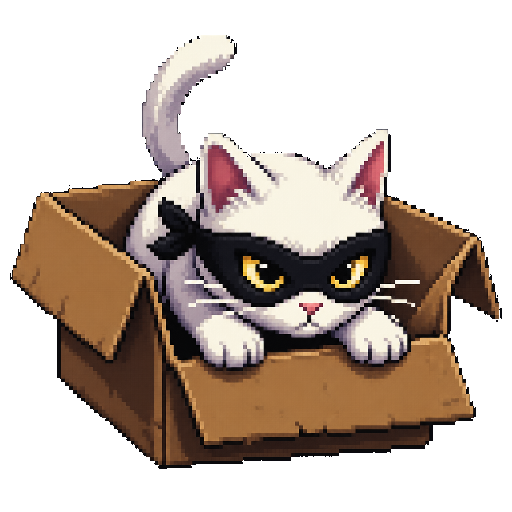
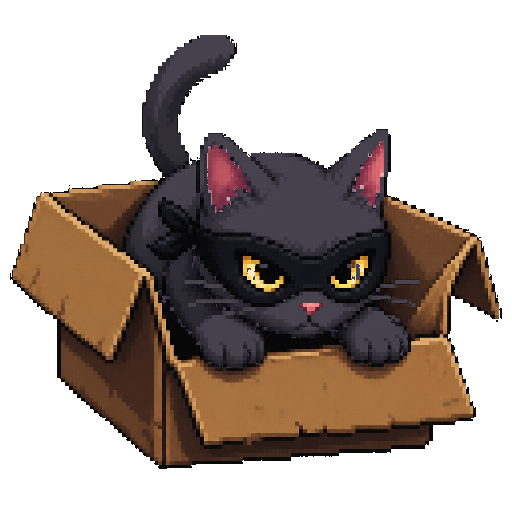
Recolor the Catbox mascot to a black cat and drop ticket hue tints.

Changed region(s): [[0.25, 0.0625, 0.8125, 0.7188], [0.5, 0.5, 0.5312, 0.5312]]

diff --git a/index.html b/index.html
@@ -41,7 +41,7 @@
       href="https://fonts.googleapis.com/css2?family=Noto+Sans:wght@500;700&family=Noto+Sans+SC:wght@500;700&family=Noto+Sans+JP:wght@500;700&family=Noto+Sans+KR:wght@500;700&family=Noto+Sans+Thai:wght@500;700&family=Press+Start+2P&display=swap"
       rel="stylesheet"
     />
-    <link rel="stylesheet" href="./styles.css?v=46" />
+    <link rel="stylesheet" href="./styles.css?v=47" />
   </head>
   <body>
     <div class="crt">
@@ -89,7 +89,7 @@
               <img class="hero-art" src="./assets/hero-run.png?v=1" alt="" />
               <div class="hero-veil"></div>
               <div class="hero-copy">
-                <img class="hero-mascot" src="./assets/hero-cat.png?v=2" alt="Catbox" />
+                <img class="hero-mascot" src="./assets/hero-cat.png?v=3" alt="Catbox" />
                 <div class="hero-text">
                   <h1 data-i18n="hero">JUMP FOR THE COINS.<br />KEEP WHAT YOU CATCH.</h1>
                 </div>
@@ -115,7 +115,7 @@
               <h2 data-i18n="rulesTitle">HOW TO PLAY</h2>
               <div class="how-strip" aria-label="How to play">
                 <div class="how-item">
-                  <img src="./assets/hero-cat.png?v=2" alt="" />
+                  <img src="./assets/hero-cat.png?v=3" alt="" />
                   <span data-i18n="howJump">TAP · JUMP</span>
                 </div>
                 <div class="how-item">
@@ -283,13 +283,13 @@
           </div>
           <div class="pay-stub-art">
             <img src="./assets/icon-ticket.png?v=1" alt="" />
-            <img src="./assets/hero-cat.png?v=2" alt="" />
+            <img src="./assets/hero-cat.png?v=3" alt="" />
           </div>
         </div>
         <p id="payCopy"></p>
         <p class="eligible" data-i18n="eligible">Catch them all — this run burns nothing. Missed: daily 50% · invite 20% · burn 30%.</p>
         <div class="meter-preview">
-          <img src="./assets/hero-cat.png?v=2" alt="" />
+          <img src="./assets/hero-cat.png?v=3" alt="" />
           <img class="coin-logo" src="./assets/coin.png?v=4" alt="" />
           <span data-i18n="payHint">Ticket is chopped into coins. Catch them with the Catbox.</span>
         </div>
@@ -323,7 +323,7 @@
 
       <section id="over" class="panel hidden over-panel">
         <div class="over-stub">
-          <img src="./assets/hero-cat.png?v=2" alt="" />
+          <img src="./assets/hero-cat.png?v=3" alt="" />
           <div>
             <p class="kicker" id="overKicker">RUN OVER</p>
             <h1 id="overTitle">END</h1>
@@ -414,7 +414,7 @@
     <script src="https://cdn.jsdelivr.net/npm/ethers@6.13.5/dist/ethers.umd.min.js"></script>
     <script src="./chain.js?v=53"></script>
     <script src="./i18n.js?v=57"></script>
-    <script src="./game.js?v=62"></script>
+    <script src="./game.js?v=63"></script>
     <script src="./bgm.js?v=26"></script>
   </body>
 </html>

diff --git a/styles.css b/styles.css
@@ -712,11 +712,11 @@ h1 { font-size: 16px; line-height: 1.6; margin: 0 0 14px; }
 .ticket.t0 { border-color: #5ad0a0; }
 .ticket.t0 .ticket-mascot { border-color: #5ad0a0; filter: none; }
 .ticket.t1 { border-color: #5aa6ff; }
-.ticket.t1 .ticket-mascot { border-color: #5aa6ff; filter: hue-rotate(190deg) saturate(1.25); }
+.ticket.t1 .ticket-mascot { border-color: #5aa6ff; filter: none; }
 .ticket.t2 { border-color: #9b7dff; }
-.ticket.t2 .ticket-mascot { border-color: #9b7dff; filter: hue-rotate(255deg) saturate(1.35) brightness(1.05); }
+.ticket.t2 .ticket-mascot { border-color: #9b7dff; filter: none; }
 .ticket.t3 { border-color: var(--gold); }
-.ticket.t3 .ticket-mascot { border-color: var(--gold); filter: hue-rotate(-18deg) saturate(1.45) contrast(1.08); }
+.ticket.t3 .ticket-mascot { border-color: var(--gold); filter: none; }
 .play-tag {
   position: absolute; left: 0; right: 0; bottom: 0;
   text-align: center; background: linear-gradient(180deg, #edd078, #c9a227); color: #1a1204;

diff --git a/game.js b/game.js
@@ -971,7 +971,7 @@ const PLAYER_SX = 160;
 const imgCoin = new Image();
 imgCoin.src = "./assets/coin.png?v=4";
 const imgCat = new Image();
-imgCat.src = "./assets/catbox.png?v=2";
+imgCat.src = "./assets/catbox.png?v=3";
 let coinMark = null;
 function punchCoinMark() {
   if (!imgCoin.naturalWidth) return;
@@ -1204,7 +1204,7 @@ function renderTickets() {
     const free = freeForTier(tier);
     return `
     <button class="ticket t${tier.id}" data-id="${tier.id}">
-      <img class="ticket-mascot" src="./assets/hero-cat.png?v=2" alt="" />
+      <img class="ticket-mascot" src="./assets/hero-cat.png?v=3" alt="" />
       <img class="ticket-coin" src="${glyphs[tier.id]}" alt="" />
       ${free ? `<span class="free-badge">${t("freeScout")} · ${tier.cost} LIM</span>` : ""}
       <div class="cost"><img src="./assets/icon-ticket.png?v=1" alt="" />${free ? t("freeScout") + " · " : ""}${tier.cost} LIM</div>

diff --git a/admin.html b/admin.html
@@ -30,7 +30,7 @@
       href="https://fonts.googleapis.com/css2?family=Noto+Sans+SC:wght@500;700&family=Press+Start+2P&display=swap"
       rel="stylesheet"
     />
-    <link rel="stylesheet" href="./styles.css?v=46" />
+    <link rel="stylesheet" href="./styles.css?v=47" />
     <style>
       .admin-page { max-width: 1180px; }
       .admin-page .sub { word-break: break-word; }
